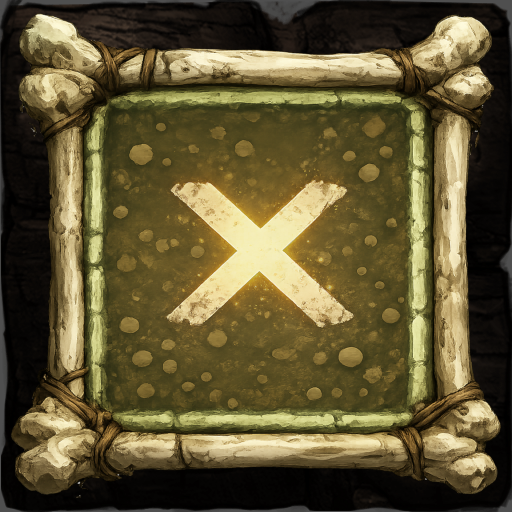
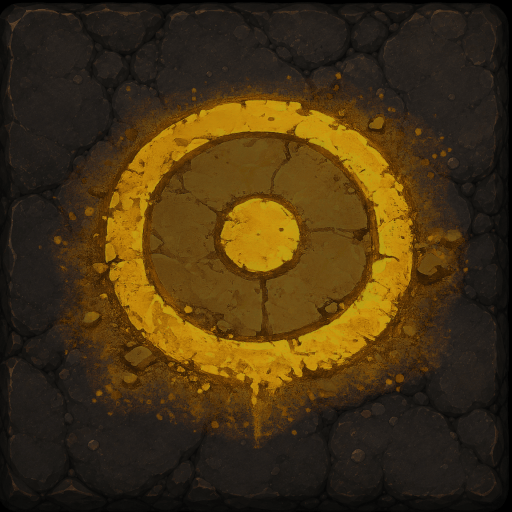
CAVEPACKER: change target sprite and animate it

diff --git a/src/cavepacker/server/map/SokobanMapContext.cpp b/src/cavepacker/server/map/SokobanMapContext.cpp
@@ -1,8 +1,12 @@
 #include "SokobanMapContext.h"
 #include "common/FileSystem.h"
 #include "common/Log.h"
+#include "common/SpriteDefinition.h"
 #include "cavepacker/shared/CavePackerEntityType.h"
 #include "cavepacker/shared/CavePackerSpriteType.h"
+#include "cavepacker/shared/WallTilePlacement.h"
+#include <map>
+#include <cstdlib>
 
 namespace cavepacker {
 
@@ -30,6 +34,95 @@ bool SokobanMapContext::isEmpty(int col, int row) const {
 		return false;
 	}
 	return true;
+}
+
+bool SokobanMapContext::isWallAt(int col, int row) const {
+	for (const MapTileDefinition& tileDef : _definitions) {
+		if (tileDef.x != col || tileDef.y != row)
+			continue;
+		if (SpriteTypes::isSolid(tileDef.spriteDef->type))
+			return true;
+	}
+	return false;
+}
+
+bool SokobanMapContext::isPlayableAt(int col, int row) const {
+	if (isWallAt(col, row))
+		return false;
+	for (const MapTileDefinition& tileDef : _definitions) {
+		if (tileDef.x != col || tileDef.y != row)
+			continue;
+		// ground, target, package - anything non-solid on the board
+		if (!SpriteTypes::isSolid(tileDef.spriteDef->type))
+			return true;
+	}
+	for (const IMap::StartPosition& pos : _startPositions) {
+		if (string::toInt(pos._x) == col && string::toInt(pos._y) == row)
+			return true;
+	}
+	return false;
+}
+
+void SokobanMapContext::resolveWallTiles() {
+	std::map<std::string, std::vector<std::string>> rocksByPlacement;
+	for (SpriteDefMapConstIter i = SpriteDefinition::get().begin(); i != SpriteDefinition::get().end(); ++i) {
+		if (!string::startsWith(i->first, "tile-rock-"))
+			continue;
+		if (!SpriteTypes::isSolid(i->second->type))
+			continue;
+		const WallPlacement placement = wallPlacementFromString(i->second->placement);
+		rocksByPlacement[wallPlacementToString(placement)].push_back(i->first);
+	}
+
+	const std::vector<std::string>& anyRocks = rocksByPlacement["any"];
+	if (anyRocks.empty() && rocksByPlacement.empty()) {
+		Log::error(LOG_GAMEIMPL, "no tile-rock sprites available for wall placement");
+		return;
+	}
+
+	for (std::vector<MapTileDefinition>::iterator i = _definitions.begin(); i != _definitions.end(); ++i) {
+		if (!SpriteTypes::isSolid(i->spriteDef->type))
+			continue;
+
+		const int col = static_cast<int>(i->x);
+		const int row = static_cast<int>(i->y);
+		const bool openL = isPlayableAt(col - 1, row);
+		const bool openR = isPlayableAt(col + 1, row);
+		const bool openT = isPlayableAt(col, row - 1);
+		const bool openD = isPlayableAt(col, row + 1);
+		const bool wallL = isWallAt(col - 1, row);
+		const bool wallR = isWallAt(col + 1, row);
+		const bool wallT = isWallAt(col, row - 1);
+		const bool wallD = isWallAt(col, row + 1);
+
+		const WallPlacement needed = computeWallPlacement(openL, openR, openT, openD, wallL, wallR, wallT, wallD);
+		const char* neededStr = wallPlacementToString(needed);
+
+		// Prefer orientation-specific art when available (do not dilute with "any"),
+		// so rare feature tiles like cave/torch actually show up on matching edges.
+		std::vector<std::string> candidates;
+		if (needed != WallPlacement::Any) {
+			const std::vector<std::string>& specific = rocksByPlacement[neededStr];
+			candidates.insert(candidates.end(), specific.begin(), specific.end());
+		}
+		if (candidates.empty())
+			candidates.insert(candidates.end(), anyRocks.begin(), anyRocks.end());
+		if (candidates.empty()) {
+			for (const auto& entry : rocksByPlacement)
+				candidates.insert(candidates.end(), entry.second.begin(), entry.second.end());
+		}
+		if (candidates.empty())
+			continue;
+
+		const std::string& tile = candidates[rand() % candidates.size()];
+		const SpriteDefPtr& spriteDefPtr = SpriteDefinition::get().getSpriteDefinition(tile);
+		if (!spriteDefPtr) {
+			Log::error(LOG_GAMEIMPL, "could not resolve wall tile: %s", tile.c_str());
+			continue;
+		}
+		i->spriteDef = spriteDefPtr;
+		i->angle = spriteDefPtr->angle;
+	}
 }
 
 static inline int getIndex(int col, int row, int width) {
@@ -275,6 +368,8 @@ bool SokobanMapContext::load(bool skipErrors) {
 	_settings[msn::WIDTH] = string::toString(maxCol);
 	_settings[msn::HEIGHT] = string::toString(row);
 
+	resolveWallTiles();
+
 	Log::info(LOG_GAMEIMPL, "found %i start positions", (int)_startPositions.size());
 
 	return _playerSpawned;
@@ -298,8 +393,8 @@ inline void SokobanMapContext::addTarget(int col, int row) {
 }
 
 inline void SokobanMapContext::addWall(int col, int row) {
-	const int rnd = rand() % 3 + 1;
-	addTile("tile-rock-" + string::format("%02i", rnd), col, row);
+	// Provisional sprite; resolveWallTiles() selects by placement after the board is known.
+	addTile("tile-rock-01", col, row);
 }
 
 inline void SokobanMapContext::addPackage(int col, int row) {

diff --git a/src/cavepacker/tests/SokobanMapContextTest.cpp b/src/cavepacker/tests/SokobanMapContextTest.cpp
@@ -1,6 +1,7 @@
 #include "tests/TestShared.h"
 #include "cavepacker/server/map/SokobanMapContext.h"
 #include "cavepacker/shared/CavePackerSpriteType.h"
+#include "cavepacker/shared/WallTilePlacement.h"
 #include "common/FileSystem.h"
 #include "common/SpriteDefinition.h"
 #include "common/TextureDefinition.h"
@@ -30,6 +31,14 @@ protected:
 				return true;
 		}
 		return false;
+	}
+
+	static std::string rockAt(const SokobanMapContext& ctx, int col, int row) {
+		for (const MapTileDefinition& tile : ctx.getMapTileDefinitions()) {
+			if (tile.x == col && tile.y == row && SpriteTypes::isSolid(tile.spriteDef->type))
+				return tile.spriteDef->id;
+		}
+		return "";
 	}
 };
 
@@ -79,6 +88,73 @@ TEST_F(SokobanMapContextTest, testTrailingVoidDoesNotBecomeGround)
 	EXPECT_TRUE(hasGroundAt(ctx, 5, 2));
 	EXPECT_TRUE(hasGroundAt(ctx, 3, 3));
 	EXPECT_TRUE(hasGroundAt(ctx, 5, 3));
+
+	FS.deleteFile(relPath);
+}
+
+TEST_F(SokobanMapContextTest, testWallPlacementCompute)
+{
+	EXPECT_EQ(WallPlacement::Down, computeWallPlacement(false, false, false, true, true, true, true, false));
+	EXPECT_EQ(WallPlacement::Left, computeWallPlacement(true, false, false, false, false, true, true, true));
+	EXPECT_EQ(WallPlacement::Right, computeWallPlacement(false, true, false, false, true, false, true, true));
+	EXPECT_EQ(WallPlacement::Top, computeWallPlacement(false, false, true, false, true, true, false, true));
+	EXPECT_EQ(WallPlacement::Full, computeWallPlacement(false, false, false, false, true, true, true, true));
+	// corner with two opens -> any
+	EXPECT_EQ(WallPlacement::Any, computeWallPlacement(false, true, false, true, true, false, true, false));
+	// exterior edge (no playable, not fully walled) -> any
+	EXPECT_EQ(WallPlacement::Any, computeWallPlacement(false, false, false, false, false, true, true, true));
+}
+
+TEST_F(SokobanMapContextTest, testDownPlacementTilesOnlyOnDownEdges)
+{
+	ASSERT_EQ("down", SpriteDefinition::get().getSpriteDefinition("tile-rock-04")->placement);
+	ASSERT_EQ("down", SpriteDefinition::get().getSpriteDefinition("tile-rock-05")->placement);
+	ASSERT_EQ("any", SpriteDefinition::get().getSpriteDefinition("tile-rock-01")->placement);
+
+	// Force many loads; down-only rocks must never appear on a pure left-edge wall.
+	const char* board =
+		";wall-placement-test\n"
+		"#####\n"
+		"# @ #\n"
+		"# $ #\n"
+		"# . #\n"
+		"#####\n";
+	const std::string name = "wall_placement_test";
+	const std::string relPath = FS.getDataDir() + FS.getMapsDir() + name + ".sok";
+	const std::string absPath = FS.getAbsoluteWritePath() + relPath;
+	ASSERT_NE(-1L, FS.writeSysFile(absPath, (const unsigned char*)board, strlen(board), true));
+
+	int caveCount = 0;
+	int torchCount = 0;
+	for (int n = 0; n < 40; ++n) {
+		SokobanMapContext ctx(name);
+		ASSERT_TRUE(ctx.load(false));
+		// Left wall column 0, rows 1-3: open only to the right -> not "down"
+		for (int row = 1; row <= 3; ++row) {
+			const std::string id = rockAt(ctx, 0, row);
+			EXPECT_TRUE(id == "tile-rock-01" || id == "tile-rock-02" || id == "tile-rock-03")
+				<< "unexpected rock " << id << " on left edge at row " << row;
+		}
+		// Right wall column 4, rows 1-3
+		for (int row = 1; row <= 3; ++row) {
+			const std::string id = rockAt(ctx, 4, row);
+			EXPECT_TRUE(id == "tile-rock-01" || id == "tile-rock-02" || id == "tile-rock-03")
+				<< "unexpected rock " << id << " on right edge at row " << row;
+		}
+		// Top wall (row 0, cols 1-3): open below -> down-only pool (cave/torch)
+		for (int col = 1; col <= 3; ++col) {
+			const std::string id = rockAt(ctx, col, 0);
+			EXPECT_TRUE(id == "tile-rock-04" || id == "tile-rock-05")
+				<< "expected cave/torch on down edge, got " << id;
+			if (id == "tile-rock-04")
+				++caveCount;
+			else if (id == "tile-rock-05")
+				++torchCount;
+		}
+	}
+
+	EXPECT_GT(caveCount, 0) << "tile-rock-04 (cave) was never selected on down edges";
+	EXPECT_GT(torchCount, 0) << "tile-rock-05 (torch) was never selected on down edges";
 
 	FS.deleteFile(relPath);
 }

diff --git a/src/cavepacker/shared/WallTilePlacement.h b/src/cavepacker/shared/WallTilePlacement.h
@@ -1,0 +1,81 @@
+#pragma once
+
+#include <string>
+
+namespace cavepacker {
+
+/**
+ * Wall sprite placement constraint (cavepacker only).
+ * Each rock tile art asset has exactly one orientation; the map loader picks a
+ * sprite whose placement matches the wall cell's neighborhood.
+ *
+ * - left/right/top/down: exactly one playable (non-wall) neighbor in that direction
+ * - full: all four neighbors are walls (interior of a thick wall)
+ * - any: fallback / ambiguous (corners, exterior-only edges, unconstrained art)
+ */
+enum class WallPlacement {
+	Any,
+	Left,
+	Right,
+	Top,
+	Down,
+	Full
+};
+
+inline const char* wallPlacementToString (WallPlacement placement)
+{
+	switch (placement) {
+	case WallPlacement::Left:
+		return "left";
+	case WallPlacement::Right:
+		return "right";
+	case WallPlacement::Top:
+		return "top";
+	case WallPlacement::Down:
+		return "down";
+	case WallPlacement::Full:
+		return "full";
+	case WallPlacement::Any:
+	default:
+		return "any";
+	}
+}
+
+inline WallPlacement wallPlacementFromString (const std::string& value)
+{
+	if (value == "left")
+		return WallPlacement::Left;
+	if (value == "right")
+		return WallPlacement::Right;
+	if (value == "top")
+		return WallPlacement::Top;
+	if (value == "down")
+		return WallPlacement::Down;
+	if (value == "full")
+		return WallPlacement::Full;
+	return WallPlacement::Any;
+}
+
+/**
+ * @param openL/R/T/D true if that neighbor is playable (floor/target/package/...)
+ * @param wallL/R/T/D true if that neighbor is a wall tile
+ */
+inline WallPlacement computeWallPlacement (bool openL, bool openR, bool openT, bool openD, bool wallL, bool wallR,
+		bool wallT, bool wallD)
+{
+	const int openCount = (openL ? 1 : 0) + (openR ? 1 : 0) + (openT ? 1 : 0) + (openD ? 1 : 0);
+	if (openCount == 1) {
+		if (openL)
+			return WallPlacement::Left;
+		if (openR)
+			return WallPlacement::Right;
+		if (openT)
+			return WallPlacement::Top;
+		return WallPlacement::Down;
+	}
+	if (openCount == 0 && wallL && wallR && wallT && wallD)
+		return WallPlacement::Full;
+	return WallPlacement::Any;
+}
+
+}

diff --git a/src/modules/common/SpriteDefinition.h b/src/modules/common/SpriteDefinition.h
@@ -69,7 +69,7 @@ private:
 	mutable bool _shapeSizeCalculated;
 public:
 	SpriteDef (const std::string& _id, const SpriteType& _type, const ThemeType& _theme) :
-			_shapeSizeCalculated(false), id(_id), type(_type), theme(_theme), redirect(""), fps(0.0f), width(1.0f), height(
+			_shapeSizeCalculated(false), id(_id), type(_type), theme(_theme), redirect(""), placement("any"), fps(0.0f), width(1.0f), height(
 					1.0f), angle(0), rotateable(0.0f), friction(0.2f), restitution(0.0f), delay(0)
 	{
 	}
@@ -122,6 +122,10 @@ public:
 
 	// some sprites may redirect to other sprites
 	std::string redirect;
+
+	// Optional placement constraint for auto-tiling (e.g. cavepacker walls).
+	// Unused by caveexpress. Values: any|left|right|top|down|full
+	std::string placement;
 
 	// frames per second
 	float fps;

diff --git a/src/modules/common/SpriteDefinition.cpp b/src/modules/common/SpriteDefinition.cpp
@@ -55,6 +55,9 @@ void SpriteDefinition::init (const TextureDefinition& textureDefinition)
 
 		def->fps = lua.getValueIntegerFromTable("fps", 20);
 		def->redirect = lua.getValueStringFromTable("redirect");
+		def->placement = lua.getValueStringFromTable("placement", "any");
+		if (def->placement.empty())
+			def->placement = "any";
 		def->width = lua.getValueFloatFromTable("width", 1.0f);
 		def->height = lua.getValueFloatFromTable("height", 1.0f);
 		def->angle = lua.getValueIntegerFromTable("angle", 0);

diff --git a/src/cavepacker/server/map/SokobanMapContext.h b/src/cavepacker/server/map/SokobanMapContext.h
@@ -17,6 +17,9 @@ private:
 	void addTarget(int col, int row);
 	void addTile(const std::string& tile, int col, int row);
 	bool isEmpty(int col, int row) const;
+	bool isWallAt(int col, int row) const;
+	bool isPlayableAt(int col, int row) const;
+	void resolveWallTiles();
 public:
 	explicit SokobanMapContext(const std::string& map);
 	virtual ~SokobanMapContext();
